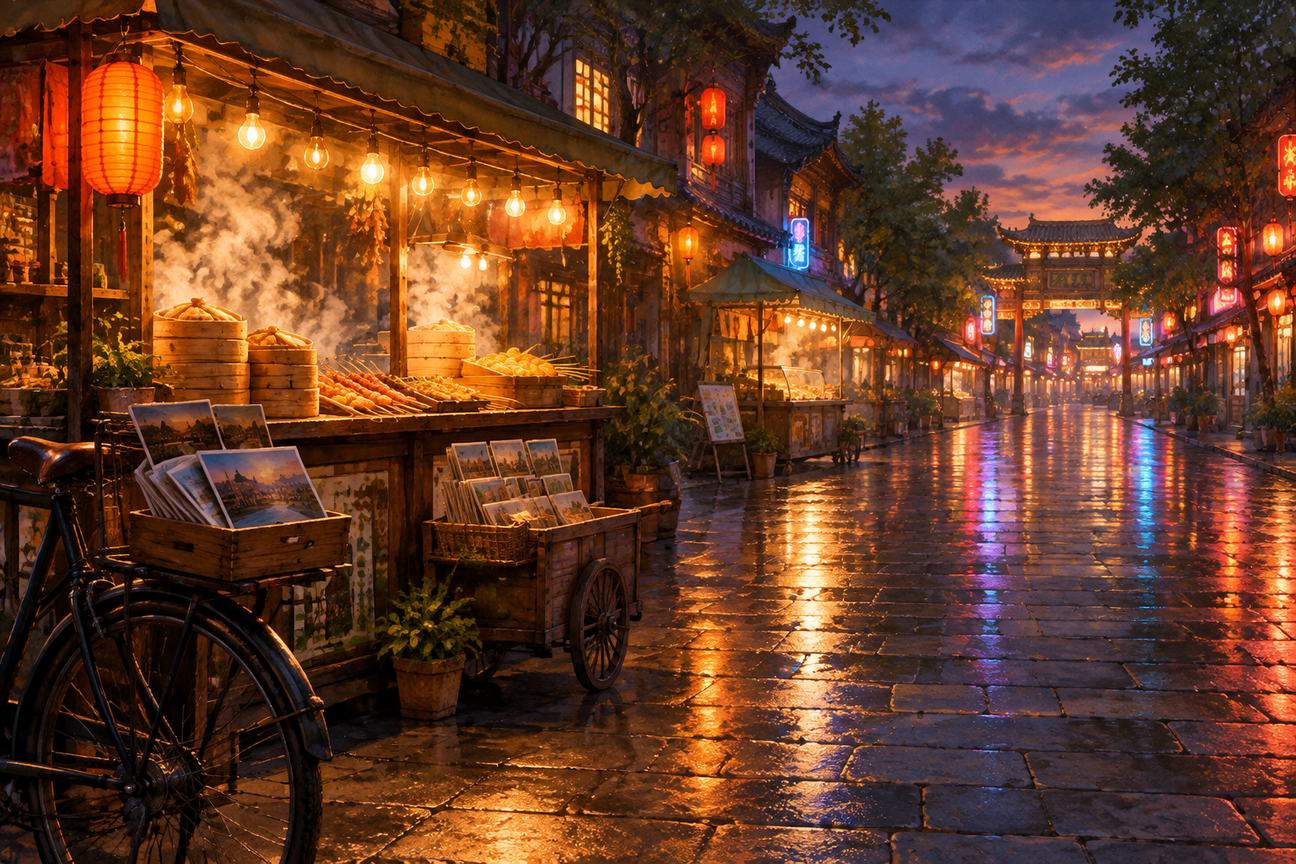
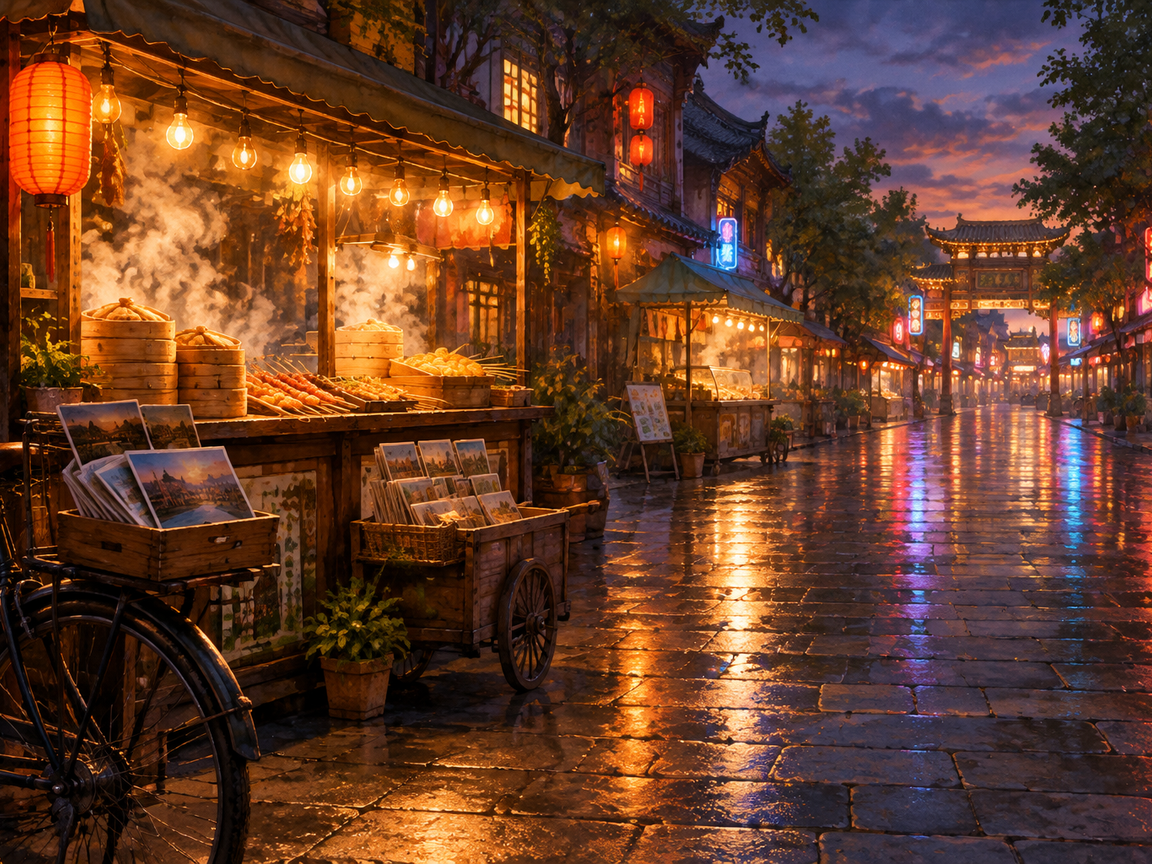
chore: update maker project

diff --git a/CHANGELOG.md b/CHANGELOG.md
@@ -43,11 +43,19 @@
 
 ### 状态边界
 
-- 本地门禁已过：Lua LSP 0 Error、`git diff --check` 干净；**32 场景自检、云端构建与真机验证未做**
-  （自检只在 Maker 启动时跑，判据仍是 `runtime.log` 的结论行「场景=32/32 … 全部通过」）。
+- 本地门禁已过：Lua LSP 0 Error、`git diff --check` 干净、`tools/m4-node-crosscheck.js`
+  独立对拍 15/15（16 包完整性与背景文件真实在库、作息↔模板↔包三方一致、
+  非关键事件集固定 5 条、痕迹绑定/去重/补挂与人生槽状态机规则复刻）。
+- 云端构建已过：`bc53496` 构建成功 + `previewRefresh 200`（2026-09-25 00:59）；
+  **32 场景自检结论与真机画面验证未闭环**——需一次真实会话把结论行落进
+  `runtime.log`（判据「场景=32/32 … 全部通过」），见 BLOCKED.md B-6。
 - 骨骼动画仍未接入（硬门槛不变：GLB→MDL skin/动画轨/真机播放三关全过才谈）；
   M4 全部动效为无骨骼程序化微动。`future3D` 只是预留字段，运行时无消费方。
-- 包体预警：16 张背景约 45.8 MB PNG，全可达不会裁包——真机分发前需降采样或压缩
+- 包体修正：Maker 生成器对 16 张背景交付了 1296×864（3:2），与请求的 `aspect_ratio=4:3 /
+  target_size=1152x864` 不符——已按画面中心裁左右各 72px 转成精确 4:3（1152×864，
+  合计 45.8 MB → 26.4 MB），`SceneService` 归一化 x/scale 按 x'=(x·1296−72)/1152 同步重映射，
+  本地引擎重跑资源取证 25/25；16 背景 + 9 痕迹的完整生成提示词已逐张登记进
+  `docs/asset-provenance.md`（设计 §8）。真机分发前仍视 GPU 表现决定是否进一步压缩
   （`docs/asset-provenance.md` 待办 #10）。
 
 ## 2026-09-24 — M3：四城初始化与关系档案（上海 / 成都 / 洛杉矶 / 伦敦 × 四种关系 + 随机）

diff --git a/BLOCKED.md b/BLOCKED.md
@@ -201,3 +201,18 @@ $ node .../@taptap/maker/dist/maker.js build --target-dir D:/Develop/ShanTianLia
 无「连续 3 次构建失败」情形（连续 3 次的是**工具响应通路**，见 B-4，不是构建本身失败）。
 未生成测试二维码、未扫码、未动 Git 配置、未装依赖（含被权限层挡下的两次：一次本地 Lua 运行时探测、
 一次仓库外常驻日志看护脚本）、未接外部后端、无 LLM 调用、未新增任何资产。
+
+# BLOCKED — M4 可感知的平行人生（2026-09-25 追加）
+
+## B-6 唯一未闭环项：一次真实会话的 runtime.log（与 B-2 同性质，机制已验证可成）
+
+- 本地门禁已全过：Lua LSP `Errors: 0`（`logs/lua_errors.log` 2026-09-25 00:53 判据行）、
+  `git diff --check` exit=0。
+- 云端构建成功：commit `bc53496`「chore: update maker project」已推 `maker/main`，
+  `previewRefresh 200`，构建返回「🎉 项目构建成功」；日志抓取器随构建重启
+  （state.json `lastSuccessAt` 每 ~31s 推进、`consecutiveFailures: 0`）。
+- 测试二维码已生成（`taptap-maker qrcode --confirmed-build`，
+  `https://tapcode-sce.spark.xd.com/qrcode/m_c7s3_1790269576070.png`）。
+- **等待**：用户扫码/打开预览跑出真机会话 → 32 场景自检结论行落 `runtime.log` →
+  核对「场景=32/32 … 全部通过」与人生切换/痕迹绑定证据。取到日志前 B-2 的口径原样适用：
+  真机会话不开，云端就没有该构建的任何运行日志，任何「自检已过」的说法都不成立。
